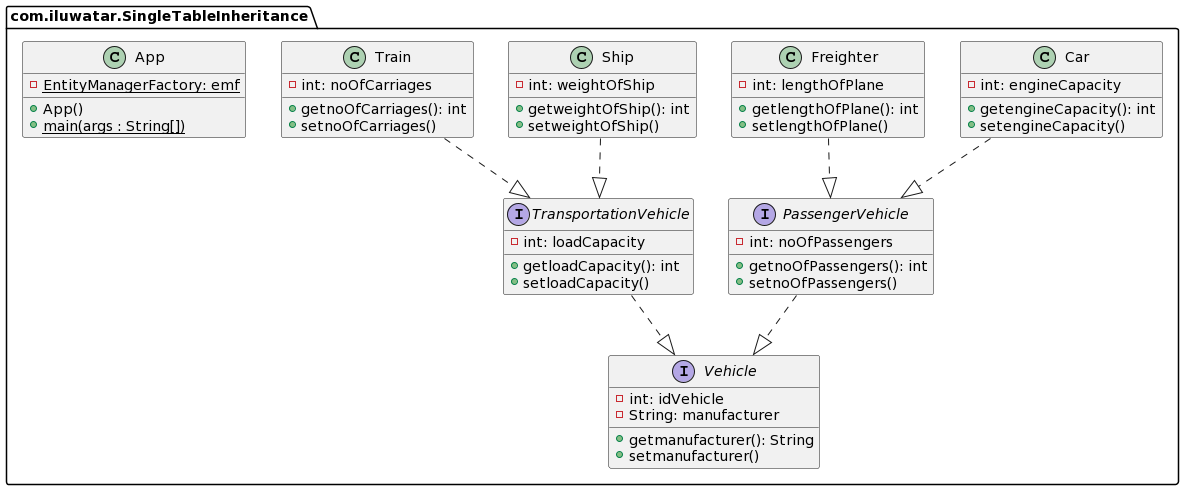
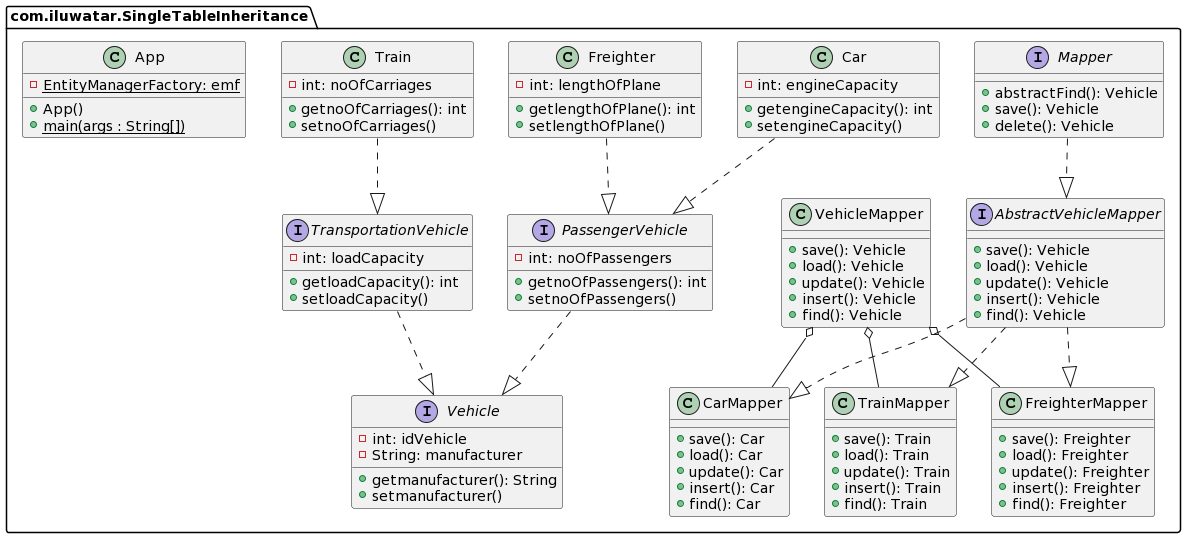
added java doc comment

diff --git a/single-table-inheritance/README.md b/single-table-inheritance/README.md
@@ -14,6 +14,39 @@ Single Table Inheritance ensure that all class in the hierarchy is map to the sa
 
 ## Programmatic Example
 
+Finding object in database
+```java
+    VehicleMapper vm = new VehicleMapper();
+    Vehicle v = vm.find(1);//1 is the Vehicle id
+```
+Inserting new object into a database
+```java
+    VehicleMapper vm = new VehicleMapper();
+
+    Car car = new Car();
+    car.setManufacturer("Volkswagen");
+    final int noOfPassengersCar = 4;
+    final int engineCapacity = 1500;
+    car.setNoOfPassengers(noOfPassengersCar);
+    car.setEngineCapacity(engineCapacity);
+    vm.insert(car);
+```
+
+Updating Object in database
+```java
+    VehicleMapper vm = new VehicleMapper();
+    Train t = (Train) vm.find(t.getIdVehicle());
+    t.setNoOfCarriages(20);
+    vm.update(t);
+```
+
+Deleting Object in database
+```java
+    VehicleMapper vm = new VehicleMapper();
+    Vehicle v = vm.find(1);//1 is the Vehicle id
+    vm.delete(v)
+```
+
 Use the Single Table Inheritance pattern when
 
 * mapping from objects to relational database without needing join to retrieve data
